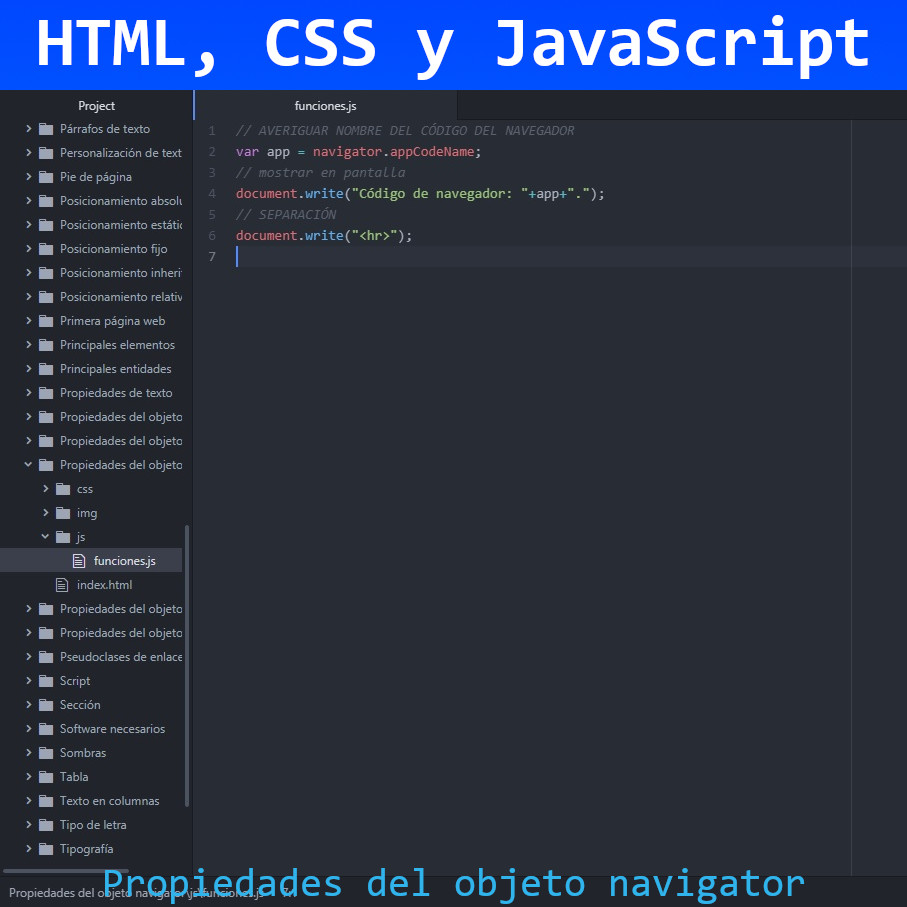
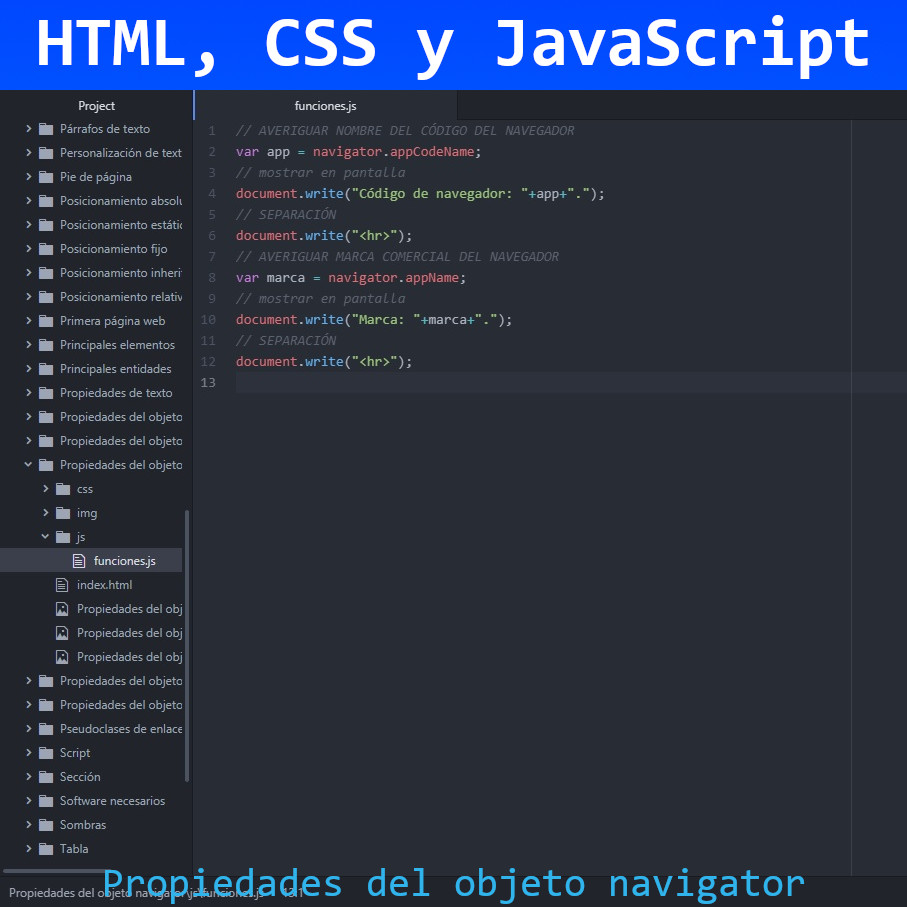
Propiedades del objeto navigator
Propiedades del objeto navigator en JavaScript

diff --git a/HTML, CSS y JavaScript/Propiedades del objeto navigator/js/funciones.js b/HTML, CSS y JavaScript/Propiedades del objeto navigator/js/funciones.js
@@ -4,3 +4,9 @@ var app = navigator.appCodeName;
 document.write("Código de navegador: "+app+".");
 // SEPARACIÓN
 document.write("<hr>");
+// AVERIGUAR MARCA COMERCIAL DEL NAVEGADOR
+var marca = navigator.appName;
+// mostrar en pantalla
+document.write("Marca: "+marca+".");
+// SEPARACIÓN
+document.write("<hr>");
